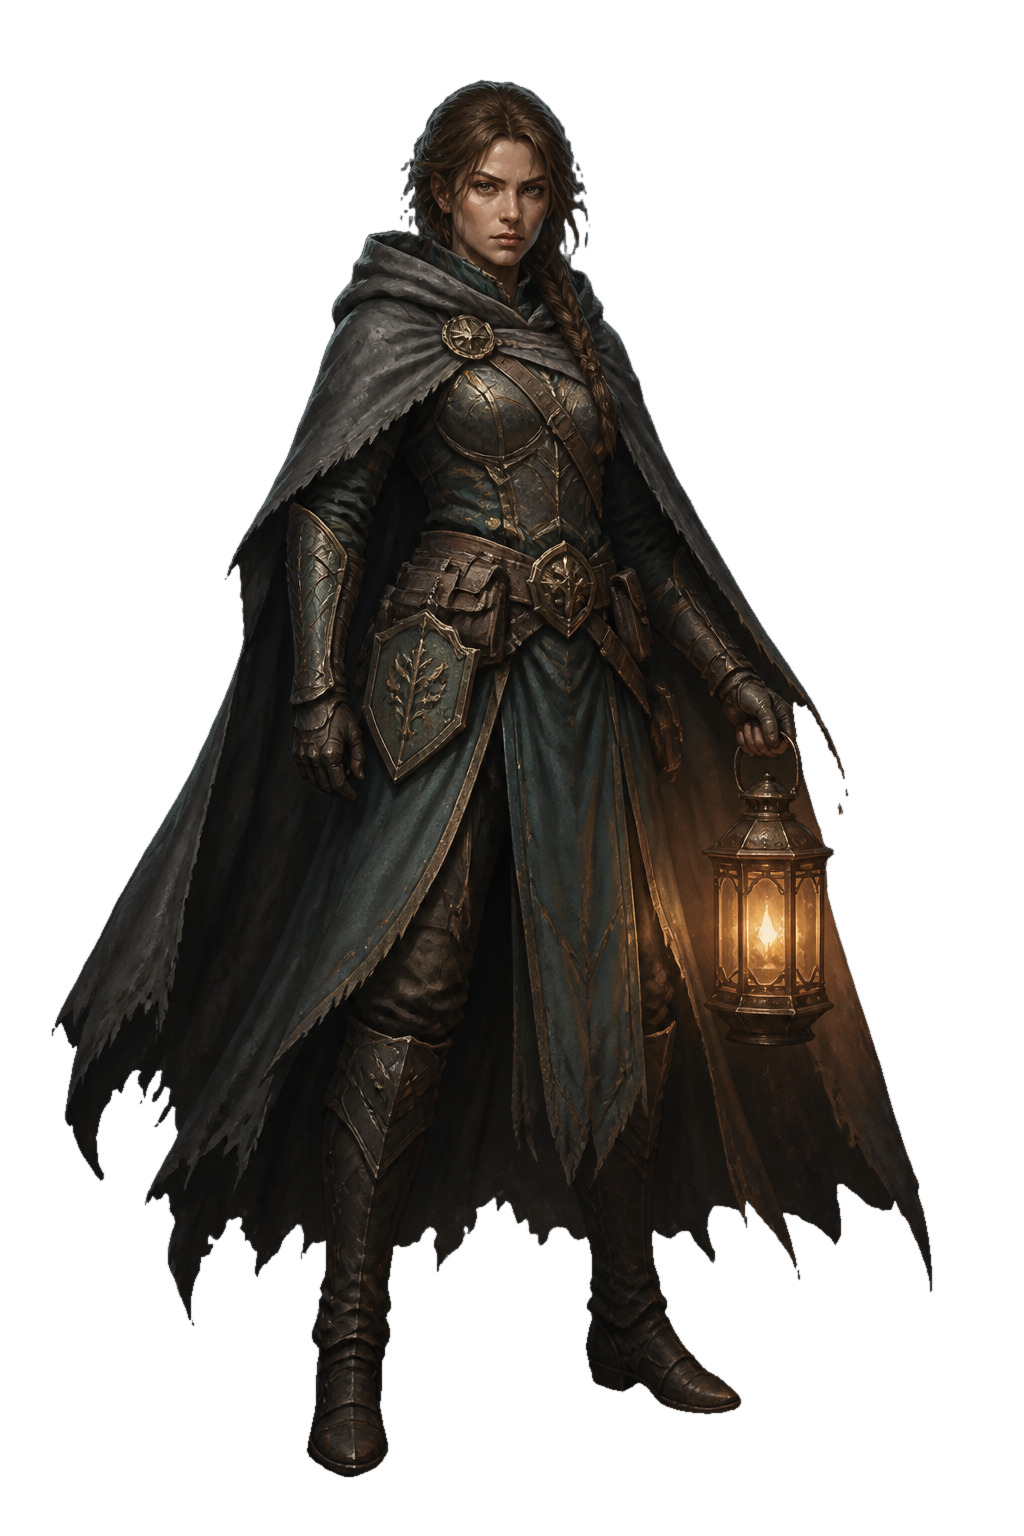
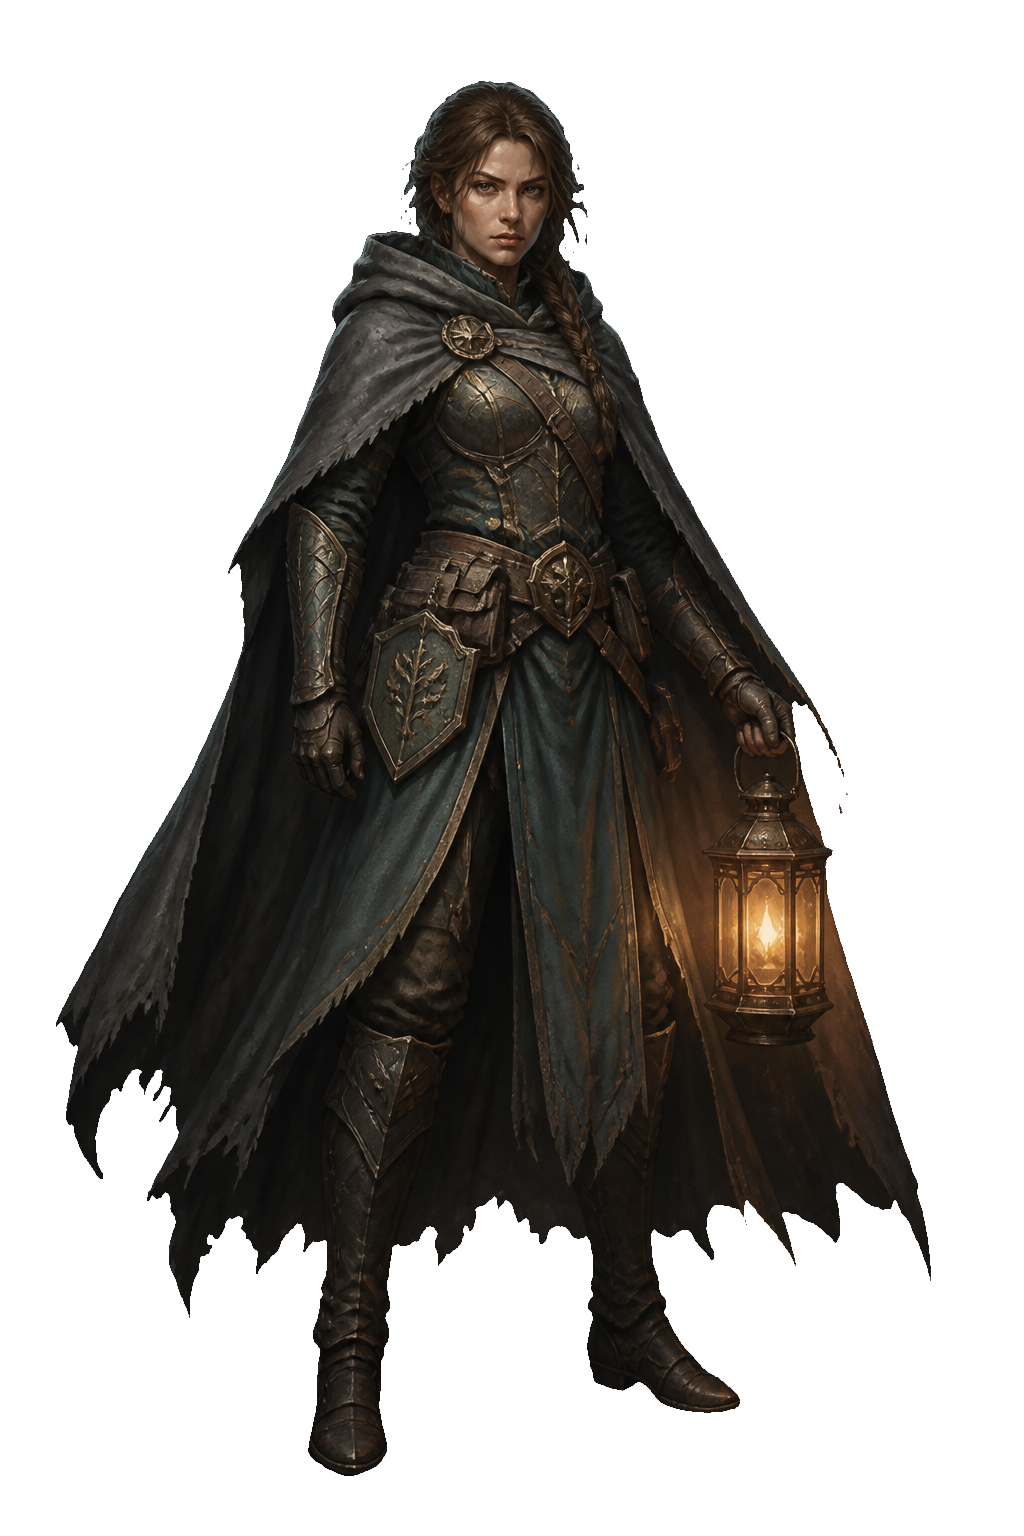
fix(story): 收紧立绘暗边残影
去掉 rembg 在深色原图上留下的半透明黑晕，透明底更干净。

diff --git a/artifacts/acceptance/narrative-showcase/battle-report.md b/artifacts/acceptance/narrative-showcase/battle-report.md
@@ -3,7 +3,7 @@
 ## Header
 - scenario: `narrative-showcase`
 - build: `GameEngine 1.0.0.0`
-- execution_timestamp_utc: `2026-08-26T02:32:05.8938033+00:00`
+- execution_timestamp_utc: `2026-08-26T02:35:35.1868469+00:00`
 - map: `narrative_showcase_hub`
 - clock: `fixed 1/60s`
 
@@ -70,6 +70,6 @@
 ## Summary Stats
 - total_actions: `10`
 - snapshots captured: `10`
-- median headless tick: `0.424ms`
-- max headless tick: `254.991ms`
+- median headless tick: `0.359ms`
+- max headless tick: `244.651ms`
 - final_ui_excerpt: `Task Tracker | Ashen Oath | No active objective. | Task, objective, and hint come from TaskRuntime plus showcase config.`
